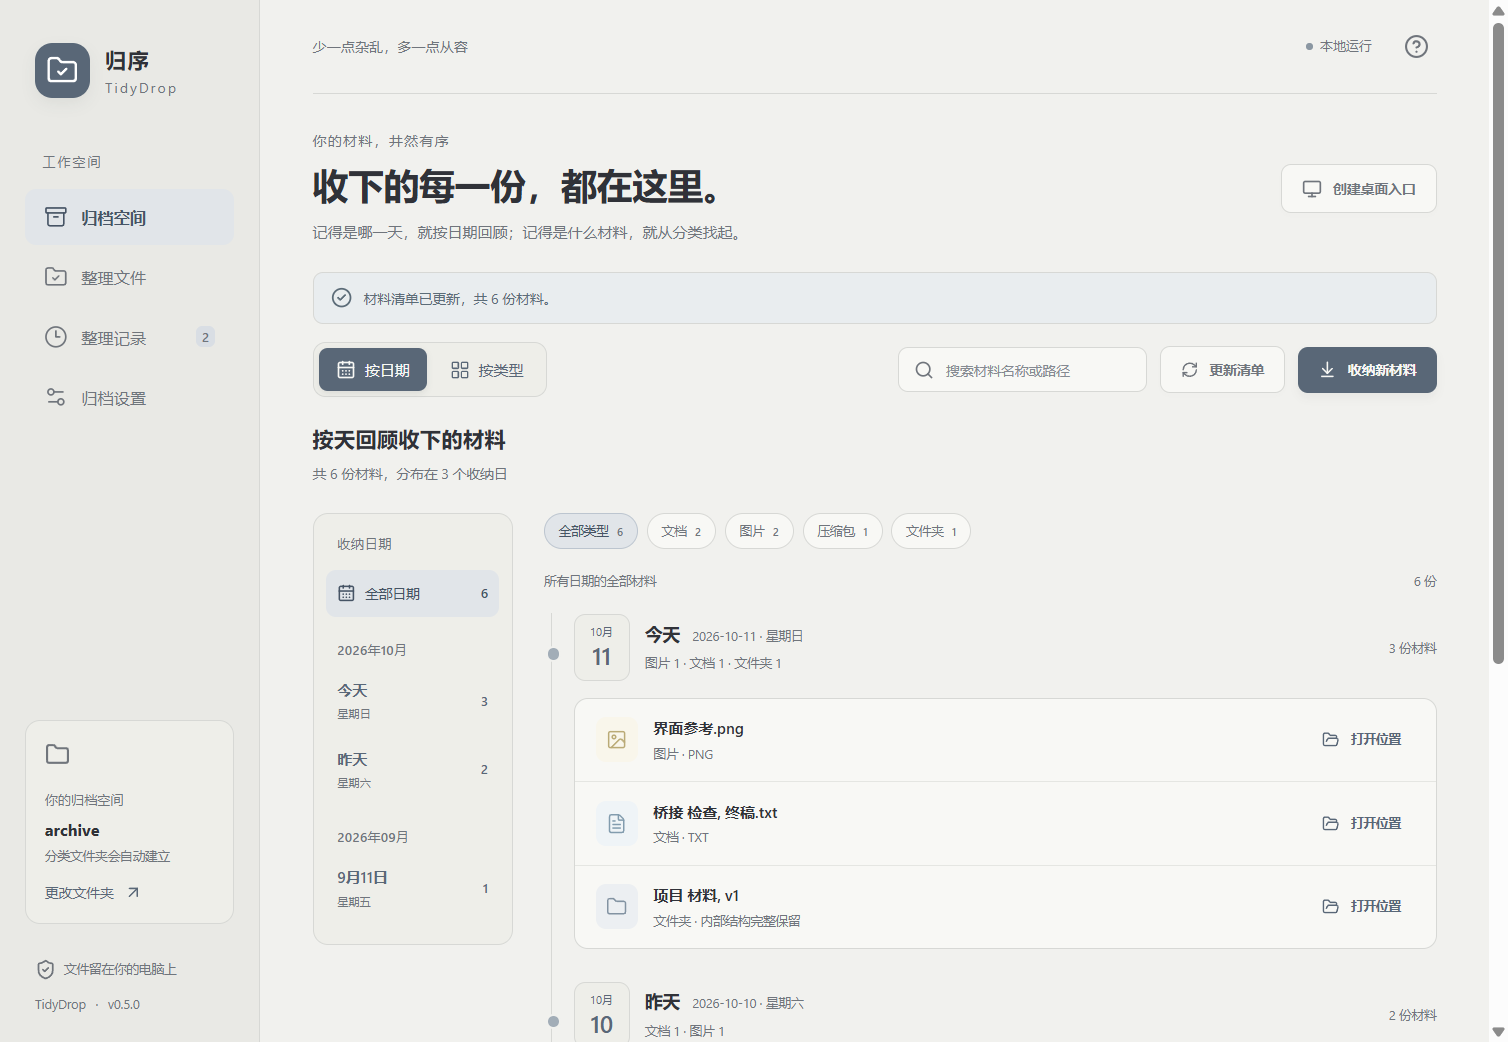
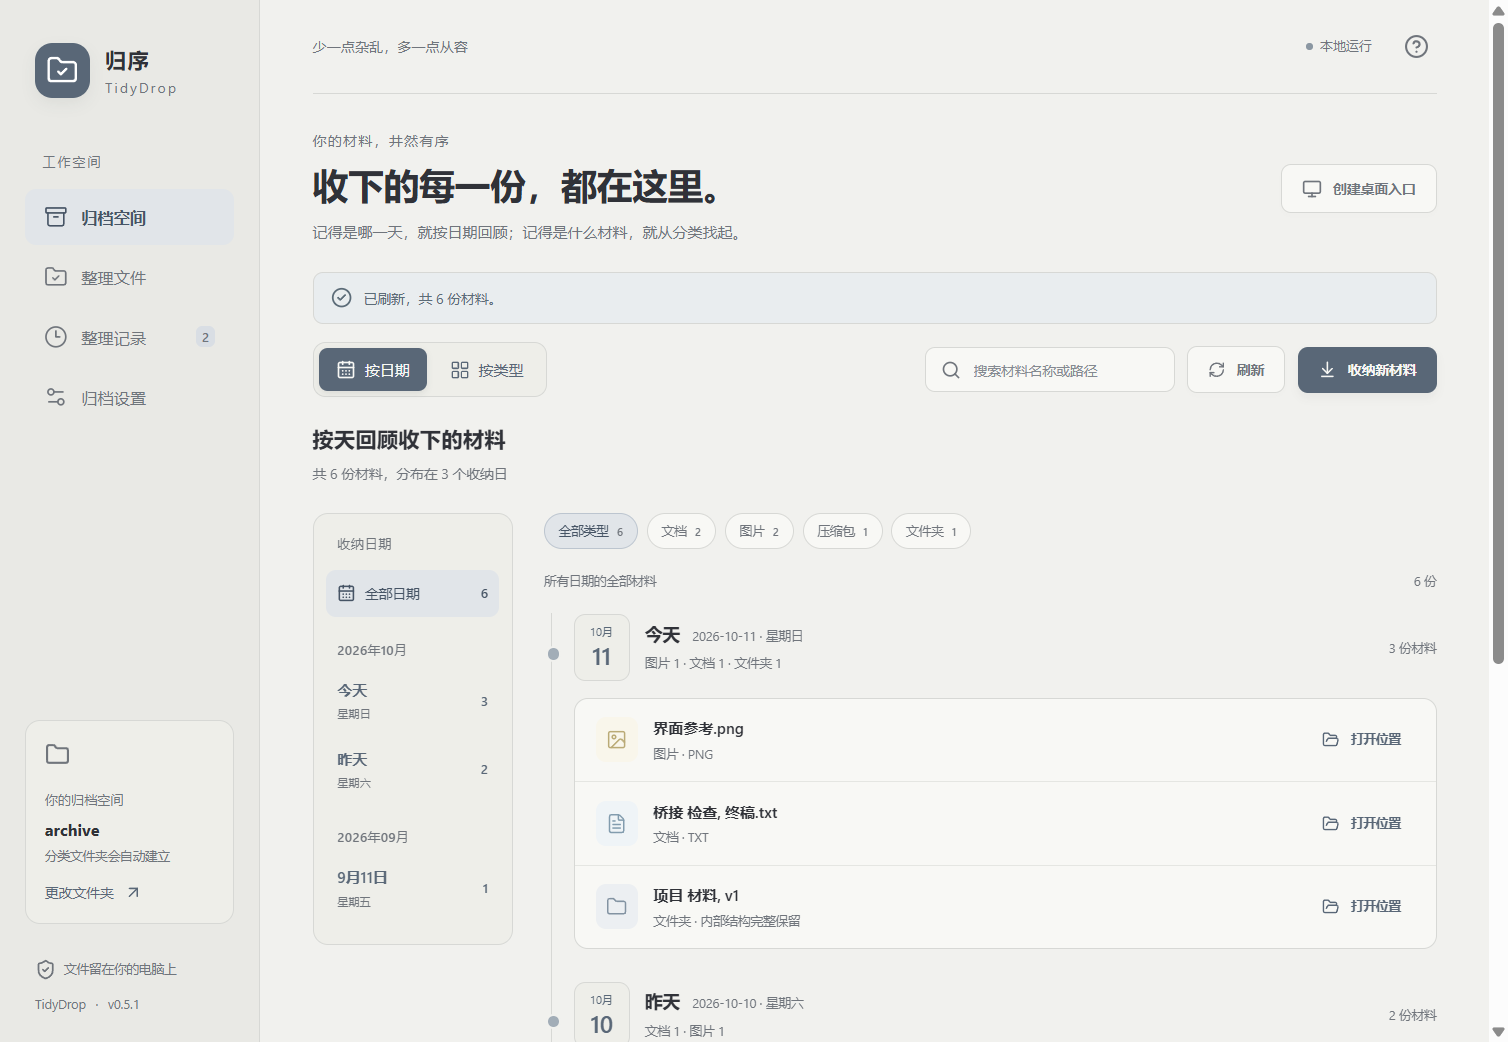
Add smooth transitions between date and type archive views

diff --git a/frontend/src/ArchiveBrowser.tsx b/frontend/src/ArchiveBrowser.tsx
@@ -1,4 +1,5 @@
-import { useEffect, useMemo, useState } from 'react';
+import { useEffect, useMemo, useRef, useState } from 'react';
+import { flushSync } from 'react-dom';
 import { Archive, ArrowDownToLine, CalendarDays, ChevronRight, FolderOpen, LayoutGrid, RefreshCw, Search, ShieldCheck, X } from 'lucide-react';
 import { categoryInfo, Glyph } from './FileGlyph';
 
@@ -26,6 +27,31 @@ function ArchiveRow({ item, showDate, busy, send }: { item: ArchiveItem; showDat
 
 export function ArchiveBrowser({ library, rootFolder, busy, send, onOrganize }: Props) {
   const [view, setView] = useState<'date' | 'type'>('date');
+  const requestedView = useRef(view);
+  const transition = useRef<ViewTransition | null>(null);
+  const mounted = useRef(true);
+  useEffect(() => {
+    mounted.current = true;
+    return () => { mounted.current = false; transition.current?.skipTransition(); };
+  }, []);
+  function changeView(next: 'date' | 'type') {
+    if (requestedView.current === next) return;
+    requestedView.current = next;
+    transition.current?.skipTransition();
+    if (typeof document.startViewTransition !== 'function' || window.matchMedia('(prefers-reduced-motion: reduce)').matches) {
+      setView(next);
+      return;
+    }
+    const active = document.startViewTransition(() => {
+      // A newer click supersedes a snapshot that has not finished capturing yet.
+      if (mounted.current && requestedView.current === next) flushSync(() => setView(next));
+    });
+    transition.current = active;
+    void active.ready.catch(() => {});
+    void active.finished.catch(() => {}).then(() => {
+      if (transition.current === active) transition.current = null;
+    });
+  }
   const [selectedDate, setSelectedDate] = useState('');
   const [selectedCategory, setSelectedCategory] = useState('');
   const [search, setSearch] = useState('');
@@ -49,13 +75,14 @@ export function ArchiveBrowser({ library, rootFolder, busy, send, onOrganize }: 
   return <section className={`library-section view-${view}`}>
     <div className="library-toolbar">
       <div className="view-switch" role="group" aria-label="归档视图">
-        <button className={view === 'date' ? 'selected' : ''} aria-pressed={view === 'date'} onClick={() => setView('date')}><CalendarDays size={16} />按日期</button>
-        <button className={view === 'type' ? 'selected' : ''} aria-pressed={view === 'type'} onClick={() => setView('type')}><LayoutGrid size={16} />按类型</button>
+        <button className={view === 'date' ? 'selected' : ''} aria-pressed={view === 'date'} onClick={() => changeView('date')}><CalendarDays size={16} />按日期</button>
+        <button className={view === 'type' ? 'selected' : ''} aria-pressed={view === 'type'} onClick={() => changeView('type')}><LayoutGrid size={16} />按类型</button>
       </div>
       <label className="search-box"><Search size={16} /><input aria-label="搜索归档空间" placeholder="搜索材料名称或路径" value={search} onChange={e => setSearch(e.target.value)} />{search && <button className="clear-search" aria-label="清空搜索" onClick={() => setSearch('')}><X size={13} /></button>}</label>
       <button className="button subtle" aria-label="刷新" title="更新材料清单并刷新当前显示" disabled={busy} onClick={() => send({ command: 'refreshLibrary' })}><RefreshCw size={14} />刷新</button>
       <button className="button primary" onClick={onOrganize}><ArrowDownToLine size={15} />收纳新材料</button>
     </div>
+    <div className={`archive-view-panel ${typeof document.startViewTransition === 'function' ? '' : 'view-fallback'}`} key={view}>
     <div className="browse-summary"><div><h2>{view === 'date' ? '按天回顾收下的材料' : '从分类里找到需要的材料'}</h2><p>{view === 'date' ? `共 ${library.length} 份材料，分布在 ${dates.length} 个收纳日` : '选择一张分类卡片，可跨日期查看同类材料'}</p></div>{hasFilters && <button className="reset-filters" onClick={reset}><X size={13} />清除筛选</button>}</div>
     {view === 'date' ? <div className="date-browser">
       <aside className="date-rail" aria-label="按收纳日筛选"><div className="group-caption">收纳日期</div><button className={`all-days ${!selectedDate ? 'selected' : ''}`} aria-pressed={!selectedDate} onClick={() => setSelectedDate('')}><CalendarDays size={15} /><span>全部日期</span><b>{inCategory.length}</b></button>
@@ -76,5 +103,6 @@ export function ArchiveBrowser({ library, rootFolder, busy, send, onOrganize }: 
       </div>
     </>}
     <div className="gentle-tip"><ShieldCheck size={15} />两种视图查看同一份材料。打开位置会进入实际文件夹，并选中材料。</div>
+    </div>
   </section>;
 }

diff --git a/frontend/src/style.css b/frontend/src/style.css
@@ -225,9 +225,23 @@ th,td{padding-left:10px;padding-right:10px}
 .folder-pick{margin-left:8px;color:var(--accent);border:1px solid var(--line);background:var(--line)}
 .library-toolbar{display:flex;align-items:center;gap:10px;margin-bottom:22px;flex-wrap:wrap}
 .library-toolbar .search-box{margin-left:auto}
-.view-switch{display:flex;gap:4px;padding:4px;border:1px solid var(--line);border-radius:10px;background:var(--surface-muted)}
-.view-switch button{display:flex;align-items:center;gap:7px;padding:9px 14px;font-size:12px;border-radius:7px;color:var(--accent)}
-.view-switch button.selected{background:var(--accent);color:var(--on-accent);box-shadow:0 2px 5px #30323817}
+.view-switch{display:grid;grid-template-columns:repeat(2,1fr);gap:4px;padding:4px;border:1px solid var(--line);border-radius:10px;background:var(--surface-muted);position:relative;isolation:isolate}
+.view-switch:before{content:'';position:absolute;left:4px;top:4px;bottom:4px;width:calc((100% - 12px)/2);border-radius:7px;background:var(--accent);box-shadow:0 2px 5px #30323817;transition:transform .24s cubic-bezier(.22,1,.36,1);z-index:-1}
+.view-type .view-switch:before{transform:translateX(calc(100% + 4px))}
+.view-switch button{display:flex;align-items:center;justify-content:center;gap:7px;padding:9px 14px;font-size:12px;border-radius:7px;color:var(--accent);background:transparent}
+.view-switch button.selected{color:var(--on-accent)}
+/* Snapshot only the changing content; toolbar and other pages stay interactive. */
+:root{view-transition-name:none}
+.archive-view-panel{view-transition-name:archive-content}
+::view-transition{pointer-events:none}
+:active-view-transition .archive-view-panel{pointer-events:none}
+::view-transition-group(archive-content){animation-duration:.24s;animation-timing-function:cubic-bezier(.22,1,.36,1)}
+::view-transition-old(archive-content){animation:archive-leave .16s ease-out both;mix-blend-mode:normal}
+::view-transition-new(archive-content){animation:archive-enter .24s cubic-bezier(.22,1,.36,1) both;mix-blend-mode:normal}
+.view-fallback{animation:archive-enter .24s cubic-bezier(.22,1,.36,1) both}
+@keyframes archive-leave{to{opacity:0;transform:translateY(-6px)}}
+@keyframes archive-enter{from{opacity:0;transform:translateY(8px)}to{opacity:1;transform:translateY(0)}}
+@media(prefers-reduced-motion:reduce){::view-transition-group(archive-content),::view-transition-old(archive-content),::view-transition-new(archive-content){animation:none!important}}
 .browse-summary{display:flex;align-items:center;justify-content:space-between;gap:20px;margin:5px 0 22px}
 .browse-summary h2{font-size:17px;font-weight:600;margin:0 0 8px;letter-spacing:.2px}
 .browse-summary p{font-size:11px;color:var(--muted);margin:0;line-height:1.7}

diff --git a/frontend/src/main.tsx b/frontend/src/main.tsx
@@ -75,7 +75,7 @@ function App() {
       <div className="nav-caption">工作空间</div>
       <nav aria-label="主导航">{nav.map(({ key, icon: Icon, label }) => <button className={`nav-item ${page === key ? 'active' : ''}`} key={key} onClick={() => setPage(key)}><Icon size={19} strokeWidth={1.7} /><span>{label}</span>{key === 'history' && completed > 0 && <b>{completed}</b>}</button>)}</nav>
       <div className="sidebar-destination"><span className="destination-symbol"><Folder size={20} /></span><span className="eyebrow">你的归档空间</span><strong title={settings.rootFolder}>{settings.rootFolder ? settings.rootFolder.split(/[/\\]/).filter(Boolean).at(-1) || settings.rootFolder : '选择一个归处'}</strong><p>{settings.rootFolder ? '分类文件夹会自动建立' : '设置一次，之后拖入就好'}</p><button disabled={busy} onClick={() => send({ command: 'pickRoot' })}>{settings.rootFolder ? '更改文件夹' : '选择文件夹'}<ArrowUpRight size={15} /></button></div>
-      <div className="sidebar-bottom"><div><ShieldCheck size={17} /><span>文件留在你的电脑上</span></div><span>TidyDrop <i>·</i> v0.5.0</span></div>
+      <div className="sidebar-bottom"><div><ShieldCheck size={17} /><span>文件留在你的电脑上</span></div><span>TidyDrop <i>·</i> v0.5.1</span></div>
     </aside>
     <main>
       <div className="topbar"><span>少一点杂乱，多一点从容</span><div><span className="local-pill"><i />本地运行</span><button className="icon-button" aria-label="使用帮助" title="使用帮助" onClick={() => setHelp(true)}><CircleHelp size={20} /></button></div></div>

diff --git a/src/TidyDrop.App/MainWindow.xaml.cs b/src/TidyDrop.App/MainWindow.xaml.cs
@@ -387,7 +387,8 @@ public partial class MainWindow : Window
             await CheckScript("document.querySelectorAll('.archive-row').length === 2 && Array.from(document.querySelectorAll('.archive-row')).every(row => row.dataset.category === '图片')");
             await Browser.ExecuteScriptAsync("document.querySelector('.reset-filters').click()");
             await CheckScript("document.querySelectorAll('.archive-row').length === 6");
-            await Task.Delay(100);
+            await CheckViewAnimations();
+            await Task.Delay(260);
             using (var output = File.Create(Path.Combine(AppContext.BaseDirectory, "smoke-types.png")))
                 await Browser.CoreWebView2.CapturePreviewAsync(CoreWebView2CapturePreviewImageFormat.Png, output);
             // React-controlled input: dispatch a native edit so onChange observes the new value.
@@ -422,7 +423,7 @@ public partial class MainWindow : Window
             await Browser.ExecuteScriptAsync("Array.from(document.querySelectorAll('button')).find(b => b.textContent === '撤销').click()");
             await WaitUntil(() => Task.FromResult(!busy && history.All(entry => entry.State == "已撤销")));
             if (File.ReadAllText(source) != "React bridge check 中文") throw new IOException("Bridge undo check failed.");
-            File.WriteAllText(Path.Combine(AppContext.BaseDirectory, "smoke-checks.txt"), "PASS React rendering\nPASS settings bridge\nPASS preview and organize bridge\nPASS history and undo bridge (file and folder)\nPASS shortcut creation and reuse\nPASS local IPC file forwarding without navigation\nPASS multi-day and month timeline\nPASS date and type cross-filtering and counts\nPASS filter preservation when switching views\nPASS search trimming, empty results, and reset\nPASS manual catalog update and persisted reopening\n");
+            File.WriteAllText(Path.Combine(AppContext.BaseDirectory, "smoke-checks.txt"), "PASS React rendering\nPASS settings bridge\nPASS preview and organize bridge\nPASS history and undo bridge (file and folder)\nPASS shortcut creation and reuse\nPASS local IPC file forwarding without navigation\nPASS multi-day and month timeline\nPASS date and type cross-filtering and counts\nPASS filter preservation when switching views\nPASS search trimming, empty results, and reset\nPASS manual catalog update and persisted reopening\nPASS animated view switching, rapid clicks, reduced motion, and fallback\n");
             Application.Current.Shutdown(0);
         }
         catch (Exception ex) { Fail(ex); }
@@ -433,6 +434,68 @@ public partial class MainWindow : Window
         var folder = Path.Combine(settings.RootFolder, "归序", date.ToString("yyyy-MM"), date.ToString("yyyy-MM-dd"), category);
         Directory.CreateDirectory(folder);
         File.WriteAllText(Path.Combine(folder, name), "Generated library check fixture");
+    }
+
+    private async Task CheckViewAnimations()
+    {
+        await Browser.ExecuteScriptAsync("""
+            window.__motionCheck = {start: document.startViewTransition, media: window.matchMedia, started: 0, finished: 0, ready: false};
+            window.matchMedia = function(query) { return query === '(prefers-reduced-motion: reduce)' ? {matches:false} : window.__motionCheck.media.call(window, query); };
+            if (typeof document.startViewTransition === 'function') {
+              document.startViewTransition = function(update) {
+                const probe = window.__motionCheck;
+                probe.started++;
+                const active = probe.start.call(this, update);
+                active.ready.then(() => {
+                  probe.ready = getComputedStyle(document.documentElement, '::view-transition-new(archive-content)').animationName.includes('archive-enter');
+                }).catch(() => {});
+                active.finished.catch(() => {}).then(() => { probe.finished++; });
+                return active;
+              };
+            }
+            Array.from(document.querySelectorAll('.view-switch button')).find(b => b.textContent === '按日期').click();
+            """);
+        try
+        {
+            await CheckScript("document.querySelector('.view-date') !== null && document.querySelectorAll('.archive-row').length === 6");
+            if (await Browser.ExecuteScriptAsync("typeof window.__motionCheck.start === 'function'") == "true")
+            {
+                await CheckScript("window.__motionCheck.ready");
+                using (var output = File.Create(Path.Combine(AppContext.BaseDirectory, "smoke-transition.png")))
+                    await Browser.CoreWebView2.CapturePreviewAsync(CoreWebView2CapturePreviewImageFormat.Png, output);
+                await CheckScript("window.__motionCheck.finished === window.__motionCheck.started");
+                await Browser.ExecuteScriptAsync("""
+                    const buttons = Array.from(document.querySelectorAll('.view-switch button'));
+                    buttons.find(b => b.textContent === '按类型').click();
+                    buttons.find(b => b.textContent === '按日期').click();
+                    buttons.find(b => b.textContent === '按类型').click();
+                    """);
+                await CheckScript("document.querySelector('.view-type') !== null && document.querySelectorAll('.archive-row').length === 6");
+                await CheckScript("window.__motionCheck.finished === window.__motionCheck.started");
+                // Exercise a click while an animation is already showing snapshots.
+                await Browser.ExecuteScriptAsync("Array.from(document.querySelectorAll('.view-switch button')).find(b => b.textContent === '按日期').click()");
+                await CheckScript("document.querySelector('.view-date') !== null");
+                await Browser.ExecuteScriptAsync("Array.from(document.querySelectorAll('.view-switch button')).find(b => b.textContent === '按类型').click()");
+                await CheckScript("document.querySelector('.view-type') !== null");
+                await CheckScript("window.__motionCheck.finished === window.__motionCheck.started");
+            }
+            await Browser.ExecuteScriptAsync("""
+                window.__motionCheck.beforeReduced = window.__motionCheck.started;
+                window.matchMedia = function(query) { return query === '(prefers-reduced-motion: reduce)' ? {matches:true} : window.__motionCheck.media.call(window, query); };
+                Array.from(document.querySelectorAll('.view-switch button')).find(b => b.textContent === '按日期').click();
+                """);
+            await CheckScript("document.querySelector('.view-date') !== null && window.__motionCheck.started === window.__motionCheck.beforeReduced");
+            await Browser.ExecuteScriptAsync("""
+                document.startViewTransition = undefined;
+                window.matchMedia = window.__motionCheck.media;
+                Array.from(document.querySelectorAll('.view-switch button')).find(b => b.textContent === '按类型').click();
+                """);
+            await CheckScript("document.querySelector('.view-type .view-fallback') !== null && document.querySelectorAll('.archive-row').length === 6");
+        }
+        finally
+        {
+            await Browser.ExecuteScriptAsync("document.startViewTransition = window.__motionCheck.start; window.matchMedia = window.__motionCheck.media; delete window.__motionCheck");
+        }
     }
 
     private Task CheckScript(string predicate) => WaitUntil(async () => await Browser.ExecuteScriptAsync(predicate) == "true");

diff --git a/README.md b/README.md
@@ -9,7 +9,7 @@
 ## 能做什么
 
 - **桌面后台收纳**：已设置归档位置并开启自动整理时，拖入快捷方式不会打开或抢焦点；完成后后台进程退出。软件已经打开时，新材料发送给现有窗口处理。
-- **日期时间线 / 类型卡片**：日期视图按年月和收纳日回顾，类型视图以分类卡片显示材料数量。日期和类型可以组合筛选，切换视图保留筛选和搜索条件。
+- **日期时间线 / 类型卡片**：日期视图按年月和收纳日回顾，类型视图以分类卡片显示材料数量。日期和类型可以组合筛选，切换时轻柔过渡，并保留筛选和搜索条件；系统开启减少动态效果时直接切换。
 - **打开位置**：打开材料实际所在的资源管理器文件夹，并选中它；支持中文、空格和逗号名称。文件夹项目同样打开其所在位置。
 - **文件夹整包收纳**：保留子目录、文件和空文件夹，归入「文件夹」分类，不拆散项目结构。
 - **一份材料，一份存储**：日期与类型是查看同一批材料的两种方式，不会为两个视图重复复制文件。
@@ -134,7 +134,7 @@ dotnet run --project tests/TidyDrop.Checks/TidyDrop.Checks.csproj -- artifacts/c
 .\scripts\check-desktop.ps1 -AppDirectory artifacts/app
 ```
 
-界面联动检查包含设置保存、预览和整理、文件及文件夹撤销、快捷方式创建与复用、运行中接收桌面拖入、跨日期与月份时间线、组合筛选与数量、切换时保留筛选、搜索与清除条件、手动更新清单和重新读取已保存清单。可选的资源管理器检查会点击真实按钮，验证中文、空格及逗号名称，生成 `smoke-explorer-checks.txt`。检查生成 `smoke-checks.txt` 和截图后退出。GitHub Actions 自动检查前端构建、核心检查和 Windows 程序发布。
+界面联动检查包含设置保存、预览和整理、文件及文件夹撤销、快捷方式创建与复用、运行中接收桌面拖入、跨日期与月份时间线、组合筛选与数量、切换时保留筛选、平滑切换动画及连续点击、减少动态效果和旧环境兼容、搜索与清除条件、手动更新清单和重新读取已保存清单。可选的资源管理器检查会点击真实按钮，验证中文、空格及逗号名称，生成 `smoke-explorer-checks.txt`。检查生成 `smoke-checks.txt` 和截图后退出。GitHub Actions 自动检查前端构建、核心检查和 Windows 程序发布。
 
 ## 当前范围
 

diff --git a/docs/development-notes.md b/docs/development-notes.md
@@ -2,7 +2,7 @@
 
 记录日期：2026-10-11
 
-当前功能版本：v0.5.0
+当前功能版本：v0.5.1
 
 性能测试基线：v0.4.0
 
@@ -18,6 +18,7 @@
 - 用户偏好柔和雾白界面，避免大面积绿色或高亮纯白。
 - 拖入桌面快捷方式后，在已配置归档位置且开启自动整理时，后台收纳，不打开或抢焦点。双击入口打开归档空间。
 - 日期视图采用按天排列的时间线，类型视图采用分类卡片；日期和类型支持组合筛选，切换视图保留筛选与搜索条件。
+- v0.5.1 为两种视图加入约 240 毫秒的淡入淡出与短距离移动，选中按钮背景平滑移动；快速连续点击以最后选择为准。系统启用减少动态效果时直接切换，旧运行环境使用淡入兼容效果。这是视觉过渡，不包含大列表性能优化。
 - 「打开位置」打开材料所在的资源管理器文件夹并选中它。已实际验证文件与文件夹，以及中文、空格、逗号名称。
 - 文件夹作为一个项目整包收纳，保留内部结构。
 - v0.5.0 已加入持久化材料清单：正常启动读取已保存清单，收纳和撤销更新条目，手动「刷新」核对目录。清单缺失、损坏或操作中断时扫描恢复，详见 [存储与材料清单说明](storage-and-catalog.md)。这项改进不包含大列表的行渲染优化。
